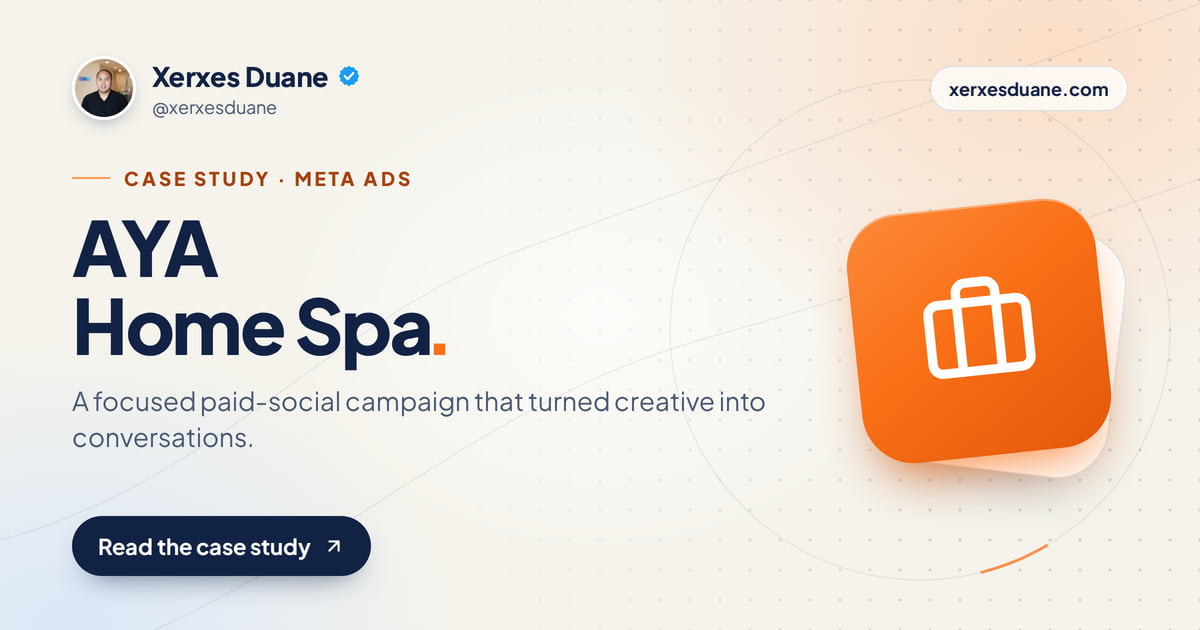
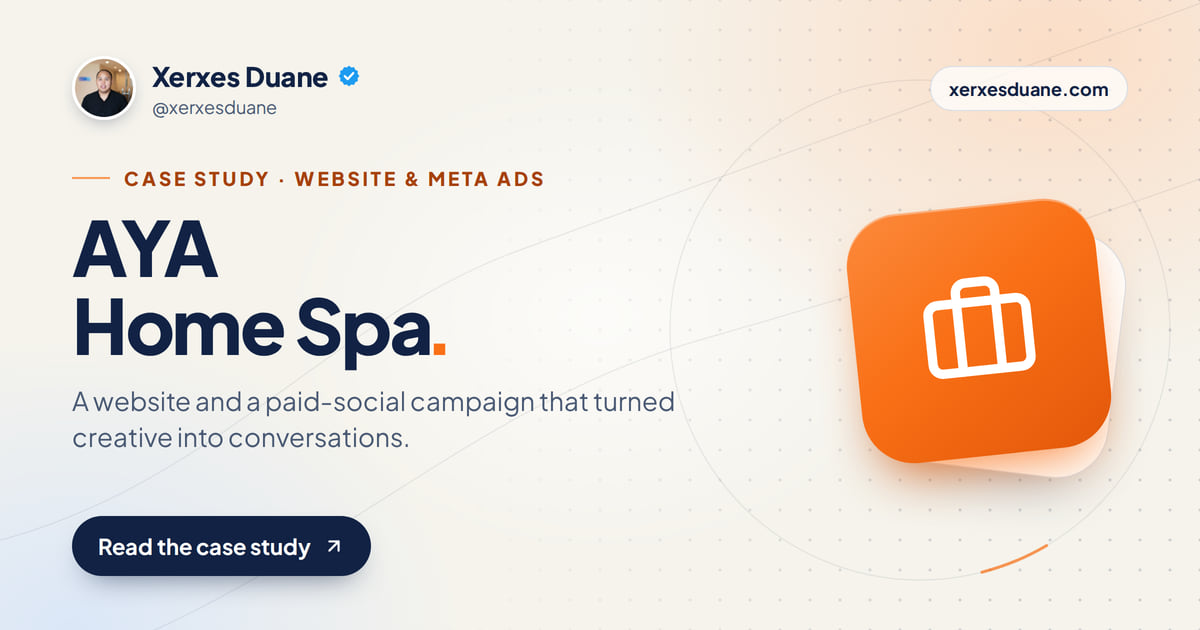
AYA Home Spa case study: website build, what the Meta figures measure
Adds what the owner confirmed on 9 Oct 2026: the website was built by
Xerxes (category now "Website & Meta Ads", linked to web development);
the figures cover the lifetime of the campaigns from Meta Ads Manager;
conversations are messaging conversations started on WhatsApp, Messenger
and Instagram. Bookings were mentioned without a figure, so they are not
published. New share card, so OG_IMAGE_VERSION is bumped. URL unchanged.

Claude-Session: https://claude.ai/code/session_01J4BMNAVeyfMRXf7zEAakke

Changed region(s): [[0.0617, 0.6032, 0.6475, 0.7238], [0.2467, 0.2714, 0.4625, 0.3016]]

diff --git a/src/data/content.ts b/src/data/content.ts
@@ -575,21 +575,22 @@ export const CASE_STUDIES: CaseStudy[] = [
   {
     slug: "aya-home-spa-meta-ads",
     metaDescription:
-      "Meta Ads for AYA Home Spa, a Dubai wellness business: a focused paid-social campaign built around strong creative, measured on reach and enquiries.",
+      "Website and Meta Ads for AYA Home Spa, a Dubai wellness business: 791 WhatsApp, Messenger and Instagram conversations and 54K people reached over the campaigns.",
     client: "AYA Home Spa",
     location: "Dubai · Wellness",
-    category: "Meta Ads",
+    category: "Website & Meta Ads",
     challenge:
       "A growing Dubai wellness brand needed real digital visibility in a crowded market.",
     summary:
-      "A focused paid-social campaign that translated strong creative into measurable reach, video attention, and customer conversations.",
+      "A website for the business and a focused paid-social campaign that translated strong creative into measurable reach, video attention, and customer conversations.",
     approach: [
+      "Built the AYA Home Spa website",
       "Built campaign creative around the service experience rather than generic offers",
       "Tested audience and message combinations against real response",
       "Optimized toward conversations instead of vanity engagement",
       "Used campaign learning to improve the next creative cycle",
     ],
-    relatedServices: ["landing-page-design-dubai", "video-editing-dubai"],
+    relatedServices: ["web-development-dubai", "landing-page-design-dubai", "video-editing-dubai"],
     image: "/work/web/web-03-thumb.webp",
     stats: [
       { value: "54K", label: "People reached" },
@@ -597,6 +598,11 @@ export const CASE_STUDIES: CaseStudy[] = [
       { value: "791", label: "Conversations" },
       { value: "117K", label: "Ad views" },
     ],
+    // Period, conversation definition and the website build confirmed by the
+    // owner, 9 Oct 2026. Bookings were mentioned without a figure, so they are
+    // not published.
+    statsNote:
+      "Lifetime of the campaigns, from Meta Ads Manager. Conversations are messaging conversations started on WhatsApp, Messenger and Instagram.",
     takeaway: "Real visibility. Real conversations. Real growth.",
     url: "https://www.ayahomespa.ae/",
   },

diff --git a/src/lib/seo.ts b/src/lib/seo.ts
@@ -63,7 +63,7 @@ const DEFAULT_OG_IMAGE = ogCard("home");
  * OG image by URL for weeks, so a versioned query string forces them to fetch
  * the current image instead of serving a stale (or wrong) cached one.
  */
-const OG_IMAGE_VERSION = "12";
+const OG_IMAGE_VERSION = "13";
 
 /** Absolute, cache-busted share-image URL for a page. */
 function ogImageUrl(image?: string): string {

diff --git a/docs/case-study-briefs.md b/docs/case-study-briefs.md
@@ -133,3 +133,15 @@ phone calls and quote-form submissions tracked in Google Ads; CPC is in NZD.
 **Still to confirm:** cost per conversion (the NZD figure from the account);
 what SEO work was done, if any (it would make this proof for `/seo-dubai`);
 whether you still manage the account; OK to name Wellington.
+
+---
+
+## 6. Website & Meta Ads: AYA Home Spa (updated 9 Oct 2026)
+
+**Now public:** you built the website; the four figures cover the lifetime of
+the campaigns (Meta Ads Manager); conversations are messaging conversations
+started on WhatsApp, Messenger and Instagram.
+
+**Still to confirm:** bookings from the ads (number and period); cost per
+conversation; whether "Real growth" in the takeaway can be backed by a figure;
+OK to name AYA.
